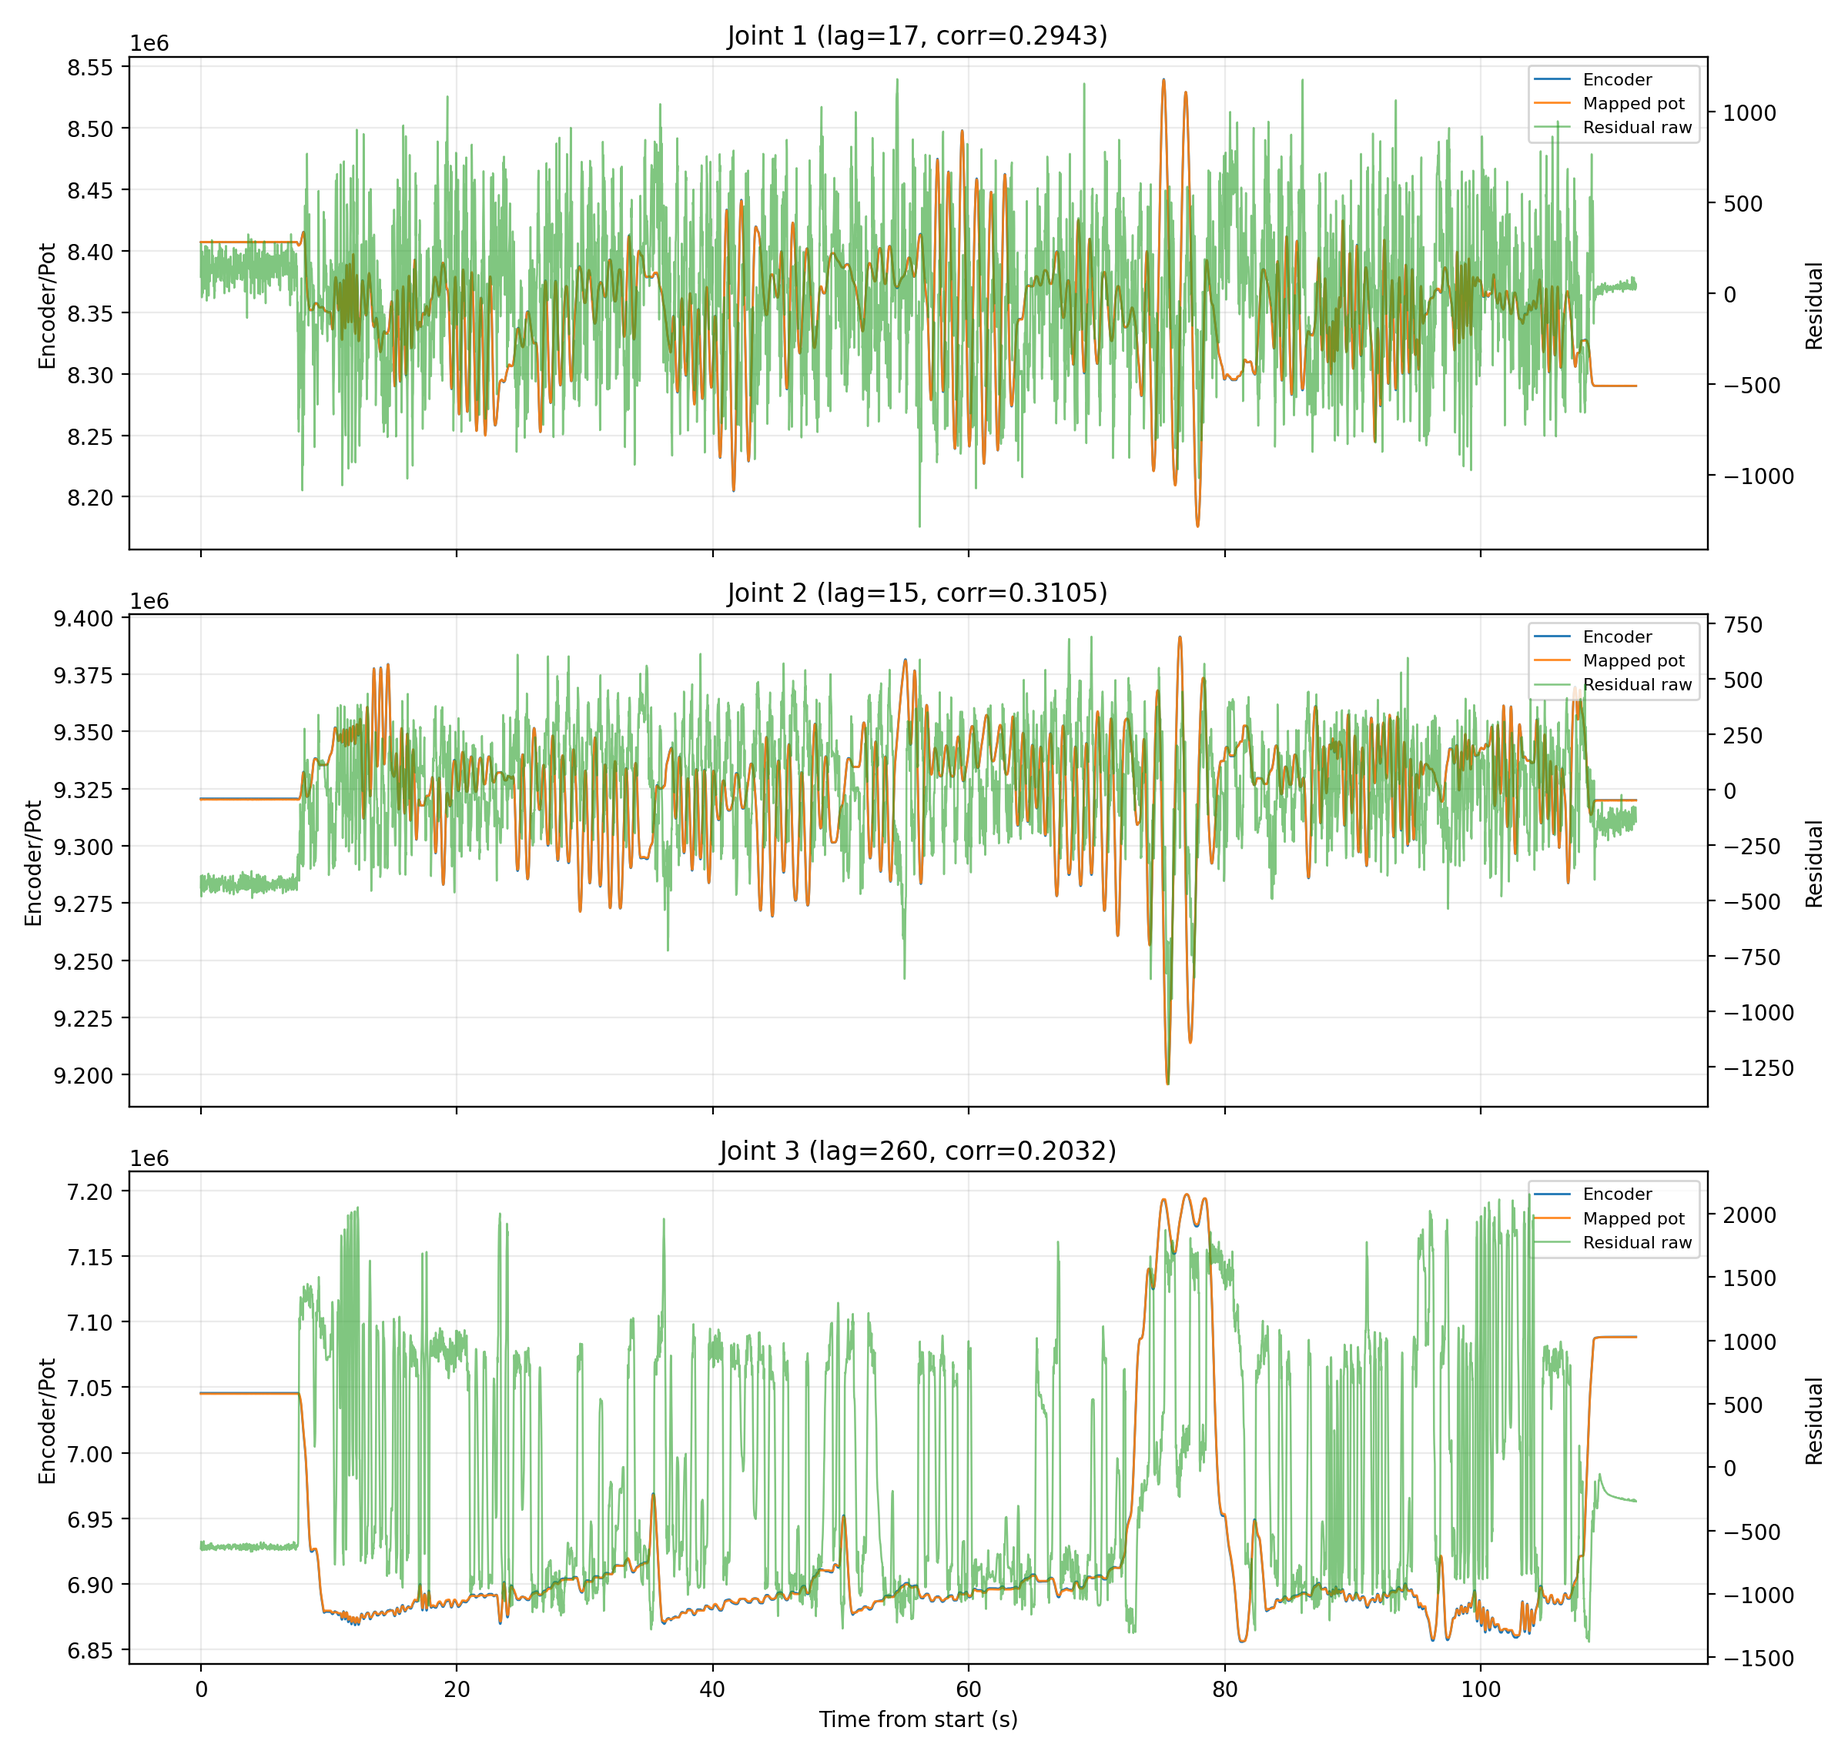
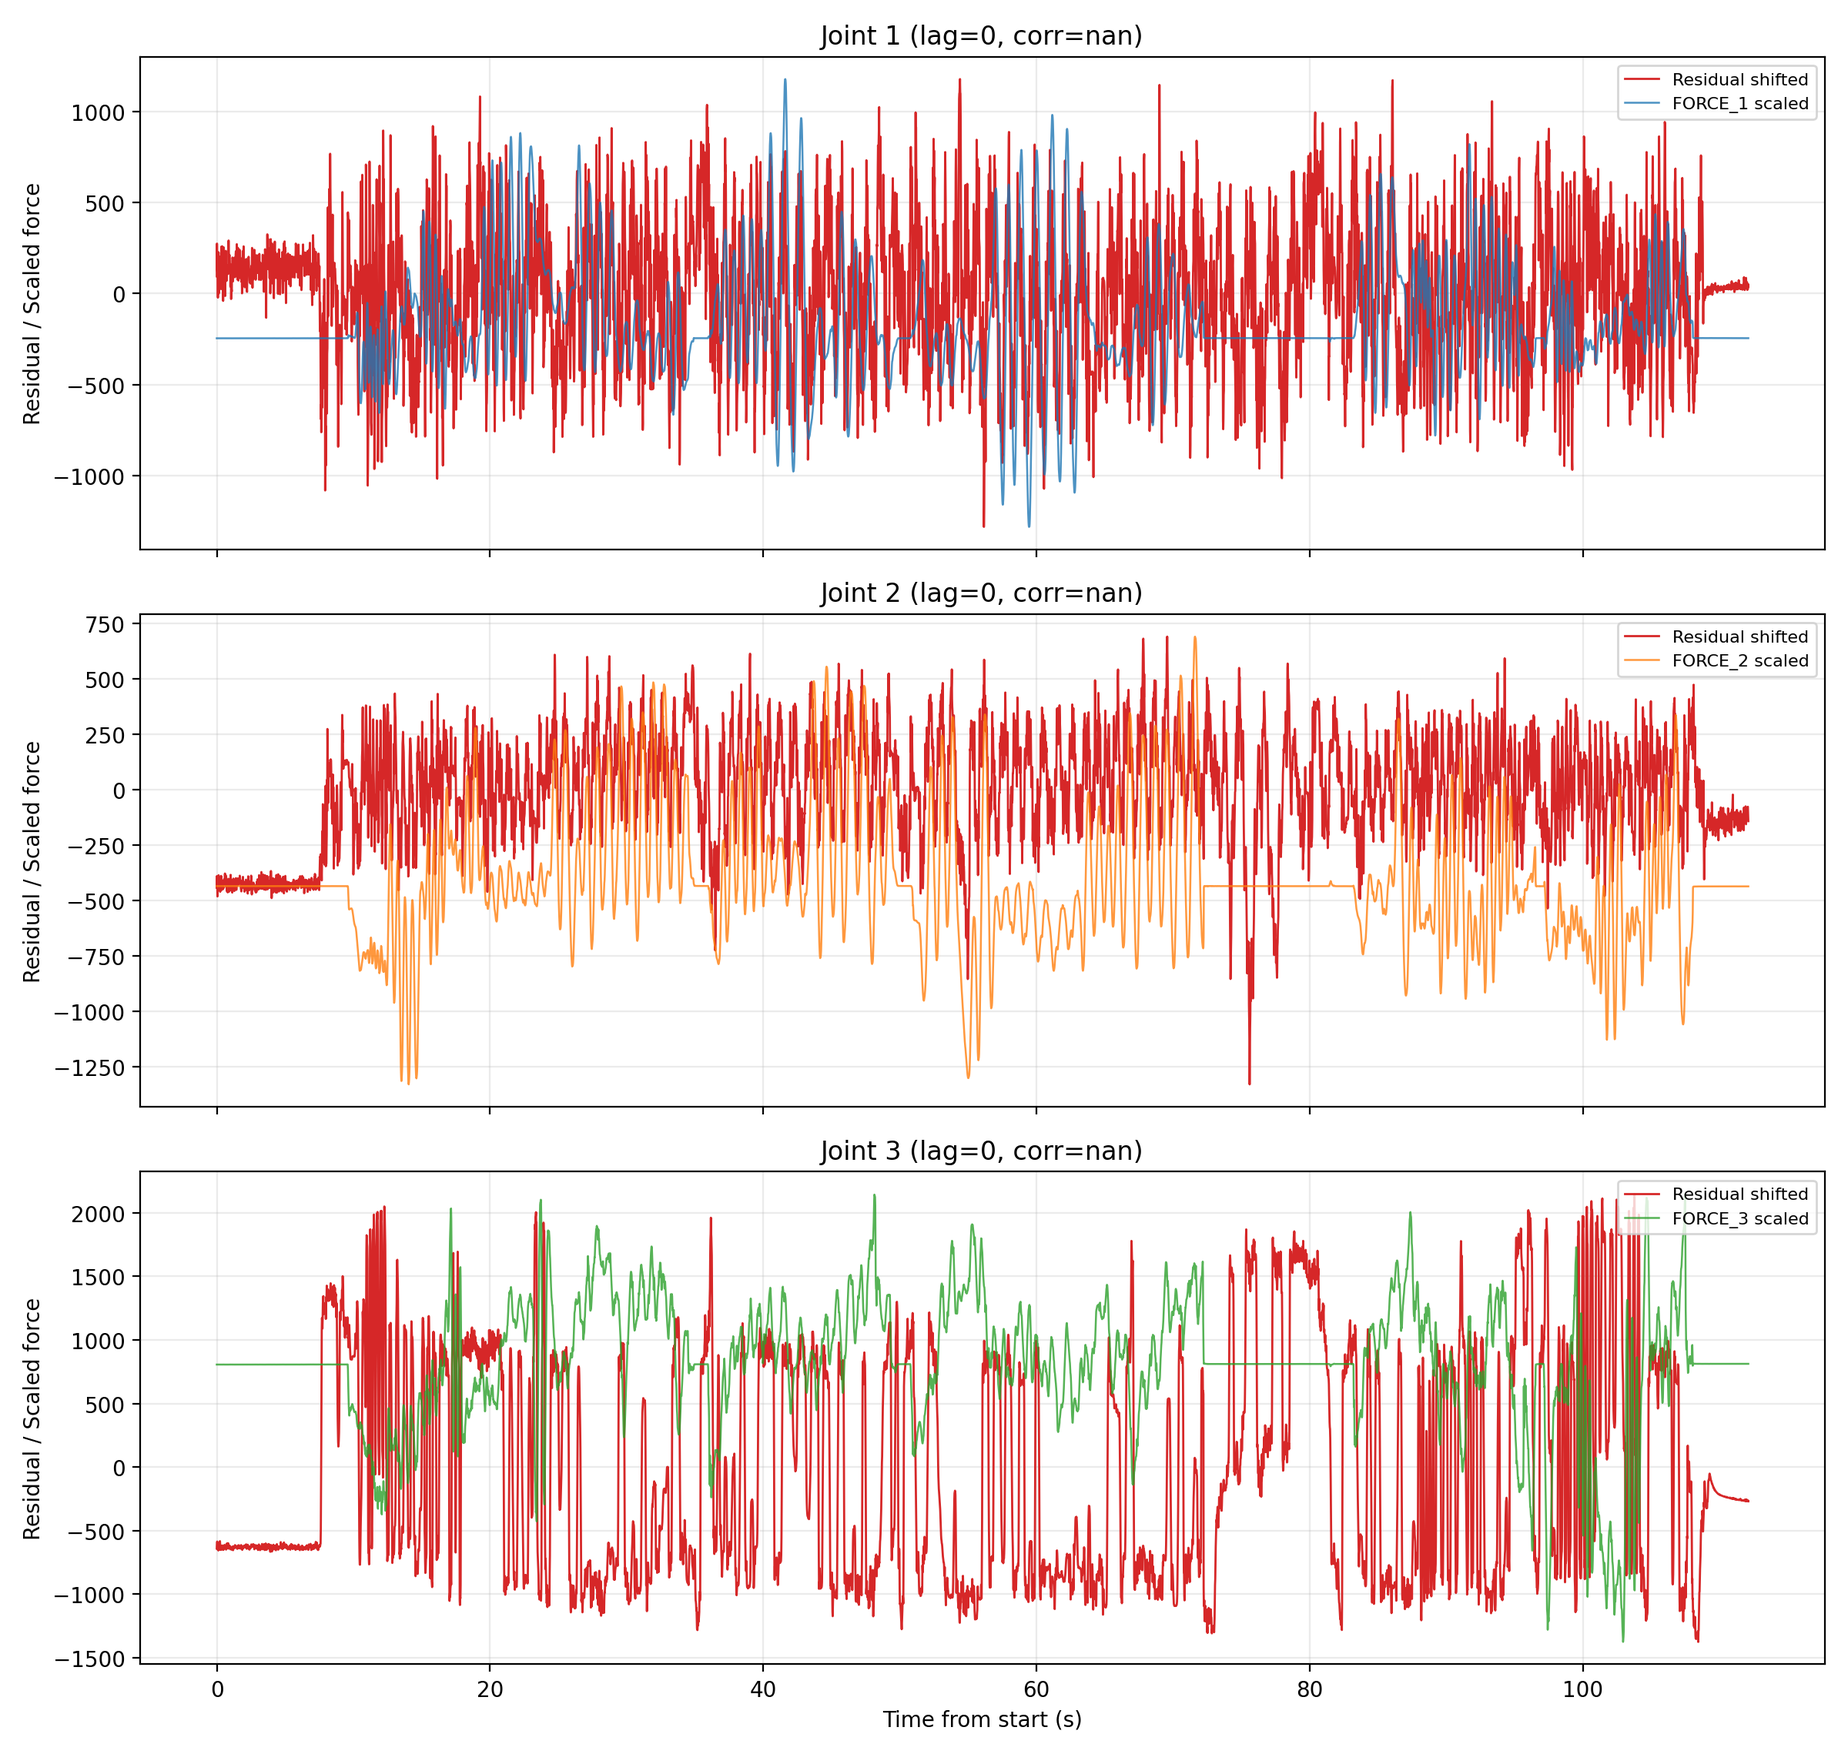
more encoder residuals update

diff --git a/plot/aligned_residual_overlay.py b/plot/aligned_residual_overlay.py
@@ -1,5 +1,5 @@
 #!/usr/bin/env python3
-"""Plot encoder/mapped pot with raw and shifted residual traces from alignment debug CSV."""
+"""Plot shifted residual traces with optional scaled force overlays from alignment debug CSV."""
 
 from __future__ import annotations
 
@@ -37,8 +37,69 @@ def _to_float(df: pd.DataFrame, col: str) -> np.ndarray | None:
     return pd.to_numeric(df[col], errors="coerce").to_numpy(dtype=float)
 
 
-def plot_overlay(debug_csv: Path, output_png: Path | None = None) -> Path:
+def _load_force_csv(
+    force_csv: Path,
+    has_header: bool,
+    time_col: int,
+    force_cols: tuple[int, ...],
+) -> pd.DataFrame:
+    if has_header:
+        df = pd.read_csv(force_csv)
+        expected = ("FORCE_1", "FORCE_2", "FORCE_3")
+        cols = [col for col in expected if col in df.columns]
+        if not cols:
+            raise ValueError("Force CSV must contain at least one of FORCE_1, FORCE_2, FORCE_3.")
+        return df
+
+    raw_df = pd.read_csv(force_csv, header=None)
+    max_idx = raw_df.shape[1] - 1
+    requested = (time_col, *force_cols)
+    if any(idx < 0 or idx > max_idx for idx in requested):
+        raise ValueError(f"Requested force/time columns {requested} exceed CSV width {raw_df.shape[1]}.")
+
+    renamed = pd.DataFrame({"TIMESTAMP": raw_df.iloc[:, time_col]})
+    for i, idx in enumerate(force_cols, start=1):
+        renamed[f"FORCE_{i}"] = raw_df.iloc[:, idx]
+    return renamed
+
+
+def _scale_to_match(target: np.ndarray, source: np.ndarray) -> np.ndarray:
+    valid = np.isfinite(target) & np.isfinite(source)
+    if np.count_nonzero(valid) < 2:
+        return source.astype(float, copy=True)
+
+    target_valid = target[valid].astype(float, copy=False)
+    source_valid = source[valid].astype(float, copy=False)
+
+    src_min = float(np.min(source_valid))
+    src_max = float(np.max(source_valid))
+    tgt_min = float(np.min(target_valid))
+    tgt_max = float(np.max(target_valid))
+
+    if np.isclose(src_max, src_min):
+        out = np.full_like(source, np.nan, dtype=float)
+        out[np.isfinite(source)] = 0.5 * (tgt_min + tgt_max)
+        return out
+
+    scale = (tgt_max - tgt_min) / (src_max - src_min)
+    offset = tgt_min - scale * src_min
+    return scale * source.astype(float, copy=False) + offset
+
+
+def plot_overlay(
+    debug_csv: Path,
+    output_png: Path | None = None,
+    force_csv: Path | None = None,
+    force_has_header: bool = True,
+    force_time_col: int = 0,
+    force_value_cols: tuple[int, ...] = (1, 2, 3),
+) -> Path:
     df = pd.read_csv(debug_csv)
+    force_df = (
+        _load_force_csv(force_csv, force_has_header, force_time_col, force_value_cols)
+        if force_csv is not None
+        else None
+    )
     joints = _joint_indices(df)
     if not joints:
         raise ValueError("No JOINT_<i>_* columns found in alignment debug CSV.")
@@ -48,11 +109,14 @@ def plot_overlay(debug_csv: Path, output_png: Path | None = None) -> Path:
     if len(joints) == 1:
         axes = [axes]
 
+    force_x, _ = _x_axis(force_df) if force_df is not None else (None, None)
+    force_colors = {
+        "FORCE_1": "tab:blue",
+        "FORCE_2": "tab:orange",
+        "FORCE_3": "tab:green",
+    }
+
     for ax, joint_i in zip(axes, joints):
-        enc = _to_float(df, f"JOINT_{joint_i}_ENCODER_POS")
-        pot = _to_float(df, f"JOINT_{joint_i}_MAPPED_POT")
-        ref = _to_float(df, f"JOINT_{joint_i}_ALIGN_REFERENCE")
-        raw = _to_float(df, f"JOINT_{joint_i}_RESIDUAL_RAW")
         shifted = _to_float(df, f"JOINT_{joint_i}_RESIDUAL_SHIFTED")
 
         lag_col = f"JOINT_{joint_i}_LAG_SAMPLES"
@@ -60,27 +124,27 @@ def plot_overlay(debug_csv: Path, output_png: Path | None = None) -> Path:
         lag_val = df[lag_col].iloc[0] if lag_col in df.columns and not df.empty else np.nan
         corr_val = df[corr_col].iloc[0] if corr_col in df.columns and not df.empty else np.nan
 
-        if enc is not None:
-            ax.plot(x, enc, label="Encoder", linewidth=1.0)
-        if pot is not None:
-            ax.plot(x, pot, label="Mapped pot", linewidth=1.0, alpha=0.9)
-        # if ref is not None:
-        #     ax.plot(x, ref, label="Align reference", linewidth=0.9, alpha=0.65)
-
-        ax2 = ax.twinx()
-        if raw is not None:
-            ax2.plot(x, raw, label="Residual raw", linewidth=0.9, color="tab:green", alpha=0.6)
-        # if shifted is not None:
-        #     ax2.plot(x, shifted, label="Residual shifted", linewidth=0.9, color="tab:red")
+        if shifted is not None:
+            ax.plot(x, shifted, label="Residual shifted", linewidth=1.0, color="tab:red")
+        if force_df is not None:
+            force_col = f"FORCE_{joint_i}"
+            if force_col in force_df.columns:
+                force_vals = _to_float(force_df, force_col)
+                scaled_force = _scale_to_match(shifted, force_vals) if shifted is not None else force_vals
+                ax.plot(
+                    force_x,
+                    scaled_force,
+                    label=f"{force_col} scaled",
+                    linewidth=0.9,
+                    alpha=0.8,
+                    color=force_colors[force_col],
+                )
 
         ax.set_title(f"Joint {joint_i} (lag={lag_val}, corr={corr_val:.4f})")
-        ax.set_ylabel("Encoder/Pot")
-        ax2.set_ylabel("Residual")
+        ax.set_ylabel("Residual / Scaled force")
         ax.grid(alpha=0.25)
 
-        lines_1, labels_1 = ax.get_legend_handles_labels()
-        lines_2, labels_2 = ax2.get_legend_handles_labels()
-        ax.legend(lines_1 + lines_2, labels_1 + labels_2, loc="upper right", fontsize=8)
+        ax.legend(loc="upper right", fontsize=8)
 
     axes[-1].set_xlabel(x_label)
     fig.tight_layout()
@@ -94,16 +158,47 @@ def plot_overlay(debug_csv: Path, output_png: Path | None = None) -> Path:
 
 def parse_args() -> argparse.Namespace:
     parser = argparse.ArgumentParser(
-        description="Plot encoder/pot with raw and shifted residual traces from alignment debug CSV."
+        description="Plot shifted residual traces with optional scaled force overlays from alignment debug CSV."
     )
     parser.add_argument("debug_csv", type=Path, help="CSV produced by append_encoder_residuals --save-alignment-debug-csv.")
+    parser.add_argument(
+        "--force-csv",
+        type=Path,
+        default=None,
+        help="Optional force CSV to overlay on every joint subplot.",
+    )
+    parser.add_argument(
+        "--force-no-header",
+        action="store_true",
+        help="Interpret --force-csv as a no-header CSV. Column 0 is time by default.",
+    )
+    parser.add_argument(
+        "--force-time-col",
+        type=int,
+        default=0,
+        help="Time column index for a no-header force CSV.",
+    )
+    parser.add_argument(
+        "--force-value-cols",
+        type=int,
+        nargs="+",
+        default=[1, 2, 3],
+        help="Force column indices for a no-header force CSV, in FORCE_1/2/3 order.",
+    )
     parser.add_argument("--output", type=Path, default=None, help="Optional output PNG path.")
     return parser.parse_args()
 
 
 def main() -> None:
     args = parse_args()
-    out = plot_overlay(args.debug_csv, args.output)
+    out = plot_overlay(
+        args.debug_csv,
+        args.output,
+        args.force_csv,
+        force_has_header=not args.force_no_header,
+        force_time_col=args.force_time_col,
+        force_value_cols=tuple(args.force_value_cols),
+    )
     print(f"Saved {out}")
 
 

diff --git a/append_encoder_residuals.py b/append_encoder_residuals.py
@@ -65,6 +65,31 @@ def _joint_index_from_residual_col(col_name: str) -> int | None:
     return None
 
 
+def _select_residual_columns(columns: list[str]) -> list[str]:
+    preferred: dict[int, str] = {}
+    fallback_order: list[str] = []
+
+    for col in columns:
+        col_str = str(col)
+        col_upper = col_str.upper()
+        if "RESIDUAL" not in col_upper:
+            continue
+        if col_upper.endswith("_RAW") or col_upper.endswith("_SHIFTED"):
+            continue
+
+        joint_i = _joint_index_from_residual_col(col_str)
+        if joint_i is None:
+            fallback_order.append(col_str)
+            continue
+
+        current = preferred.get(joint_i)
+        if col_upper.endswith("_FILTERED") or current is None:
+            preferred[joint_i] = col_str
+
+    ordered_joint_cols = [preferred[idx] for idx in sorted(preferred)]
+    return ordered_joint_cols + fallback_order
+
+
 def append_encoder_residuals(
     joints_csv: Path,
     encoder_info_csv: Path,
@@ -82,7 +107,7 @@ def append_encoder_residuals(
     joints_df = pd.read_csv(joints_csv, header=None)
     encoder_df = pd.read_csv(encoder_info_csv)
 
-    residual_cols = [c for c in encoder_df.columns if "residual" in str(c).lower()]
+    residual_cols = _select_residual_columns(list(encoder_df.columns))
     if not residual_cols:
         raise ValueError(
             f"No residual columns found in {encoder_info_csv}. "
@@ -96,50 +121,49 @@ def append_encoder_residuals(
     alignment_debug_cols: dict[str, np.ndarray] = {}
     lag_info: dict[str, int] = {}
     corr_info: dict[str, float] = {}
-    if align_residuals:
-        ref_prefix = "ENCODER_POS_" if align_reference == "encoder" else "MAPPED_POT_"
-        for fallback_i, res_col in enumerate(residual_cols, start=1):
-            joint_i = _joint_index_from_residual_col(str(res_col))
-            idx = joint_i if joint_i is not None else fallback_i
-            ref_col = f"{ref_prefix}{idx}"
-            raw_residual = pd.to_numeric(encoder_df[res_col], errors="coerce").to_numpy(dtype=float)
-            if ref_col not in encoder_df.columns:
-                print(
-                    f"Skipping alignment for {res_col}: missing reference column {ref_col}."
-                )
-                alignment_debug_cols[f"JOINT_{idx}_RESIDUAL_RAW"] = raw_residual
-                alignment_debug_cols[f"JOINT_{idx}_RESIDUAL_SHIFTED"] = raw_residual
-                lag_info[f"JOINT_{idx}_LAG_SAMPLES"] = 0
-                corr_info[f"JOINT_{idx}_ALIGN_CORR"] = float("nan")
-                continue
+    ref_prefix = "ENCODER_POS_" if align_reference == "encoder" else "MAPPED_POT_"
+    for fallback_i, res_col in enumerate(residual_cols, start=1):
+        joint_i = _joint_index_from_residual_col(str(res_col))
+        idx = joint_i if joint_i is not None else fallback_i
+        ref_col = f"{ref_prefix}{idx}"
+        enc_col = f"ENCODER_POS_{idx}"
+        pot_col = f"MAPPED_POT_{idx}"
+        raw_residual = pd.to_numeric(encoder_df[res_col], errors="coerce").to_numpy(dtype=float)
 
-            residual = raw_residual
-            reference = pd.to_numeric(encoder_df[ref_col], errors="coerce").to_numpy(dtype=float)
-            lag, corr = _best_lag_for_alignment(residual, reference, align_max_lag)
-            shifted = _shift_array(residual, lag)
-            shifted_filled = pd.Series(shifted).bfill().ffill().to_numpy(dtype=float)
-            residual_df_full[res_col] = shifted_filled
-            lag_info[f"JOINT_{idx}_LAG_SAMPLES"] = lag
-            corr_info[f"JOINT_{idx}_ALIGN_CORR"] = corr
-            alignment_debug_cols[f"JOINT_{idx}_RESIDUAL_RAW"] = residual
-            alignment_debug_cols[f"JOINT_{idx}_RESIDUAL_SHIFTED"] = shifted_filled
-            if ref_col in encoder_df.columns:
-                alignment_debug_cols[f"JOINT_{idx}_ALIGN_REFERENCE"] = pd.to_numeric(
-                    encoder_df[ref_col], errors="coerce"
-                ).to_numpy(dtype=float)
-            enc_col = f"ENCODER_POS_{idx}"
-            pot_col = f"MAPPED_POT_{idx}"
-            if enc_col in encoder_df.columns:
-                alignment_debug_cols[f"JOINT_{idx}_ENCODER_POS"] = pd.to_numeric(
-                    encoder_df[enc_col], errors="coerce"
-                ).to_numpy(dtype=float)
-            if pot_col in encoder_df.columns:
-                alignment_debug_cols[f"JOINT_{idx}_MAPPED_POT"] = pd.to_numeric(
-                    encoder_df[pot_col], errors="coerce"
-                ).to_numpy(dtype=float)
-            print(
-                f"{res_col} alignment: lag={lag} samples, corr={corr:.6f}, reference={ref_col}"
-            )
+        lag = 0
+        corr = float("nan")
+        shifted_filled = raw_residual
+
+        if align_residuals:
+            if ref_col not in encoder_df.columns:
+                print(f"Skipping alignment for {res_col}: missing reference column {ref_col}.")
+            else:
+                reference = pd.to_numeric(encoder_df[ref_col], errors="coerce").to_numpy(dtype=float)
+                lag, corr = _best_lag_for_alignment(raw_residual, reference, align_max_lag)
+                shifted = _shift_array(raw_residual, lag)
+                shifted_filled = pd.Series(shifted).bfill().ffill().to_numpy(dtype=float)
+                residual_df_full[res_col] = shifted_filled
+                print(
+                    f"{res_col} alignment: lag={lag} samples, corr={corr:.6f}, reference={ref_col}"
+                )
+
+        alignment_debug_cols[f"JOINT_{idx}_RESIDUAL_RAW"] = raw_residual
+        alignment_debug_cols[f"JOINT_{idx}_RESIDUAL_SHIFTED"] = shifted_filled
+        lag_info[f"JOINT_{idx}_LAG_SAMPLES"] = lag
+        corr_info[f"JOINT_{idx}_ALIGN_CORR"] = corr
+
+        if ref_col in encoder_df.columns:
+            alignment_debug_cols[f"JOINT_{idx}_ALIGN_REFERENCE"] = pd.to_numeric(
+                encoder_df[ref_col], errors="coerce"
+            ).to_numpy(dtype=float)
+        if enc_col in encoder_df.columns:
+            alignment_debug_cols[f"JOINT_{idx}_ENCODER_POS"] = pd.to_numeric(
+                encoder_df[enc_col], errors="coerce"
+            ).to_numpy(dtype=float)
+        if pot_col in encoder_df.columns:
+            alignment_debug_cols[f"JOINT_{idx}_MAPPED_POT"] = pd.to_numeric(
+                encoder_df[pot_col], errors="coerce"
+            ).to_numpy(dtype=float)
 
     min_len = min(len(joints_df), len(encoder_df))
     if len(joints_df) != len(encoder_df):
@@ -159,6 +183,7 @@ def append_encoder_residuals(
     out_df.to_csv(out_path, index=False, header=False)
 
     if save_alignment_debug_csv is not None:
+        print("SAVING DEBUG INFO")
         debug_df = pd.DataFrame()
         if "TIMESTAMP" in encoder_df.columns:
             debug_df["TIMESTAMP"] = pd.to_numeric(encoder_df["TIMESTAMP"], errors="coerce")
@@ -225,7 +250,7 @@ def parse_args() -> argparse.Namespace:
     parser.add_argument(
         "--align-max-lag",
         type=int,
-        default=300,
+        default=1000,
         help="Max lag (in samples) searched in both directions for alignment.",
     )
     return parser.parse_args()
@@ -237,7 +262,8 @@ def main() -> None:
         args.joints_csv,
         args.encoder_info_csv,
         args.output,
-        align_residuals=False,
+        args.save_alignment_debug_csv,
+        align_residuals=not args.no_align_residuals,
         align_reference=args.align_reference,
         align_max_lag=args.align_max_lag,
     )
